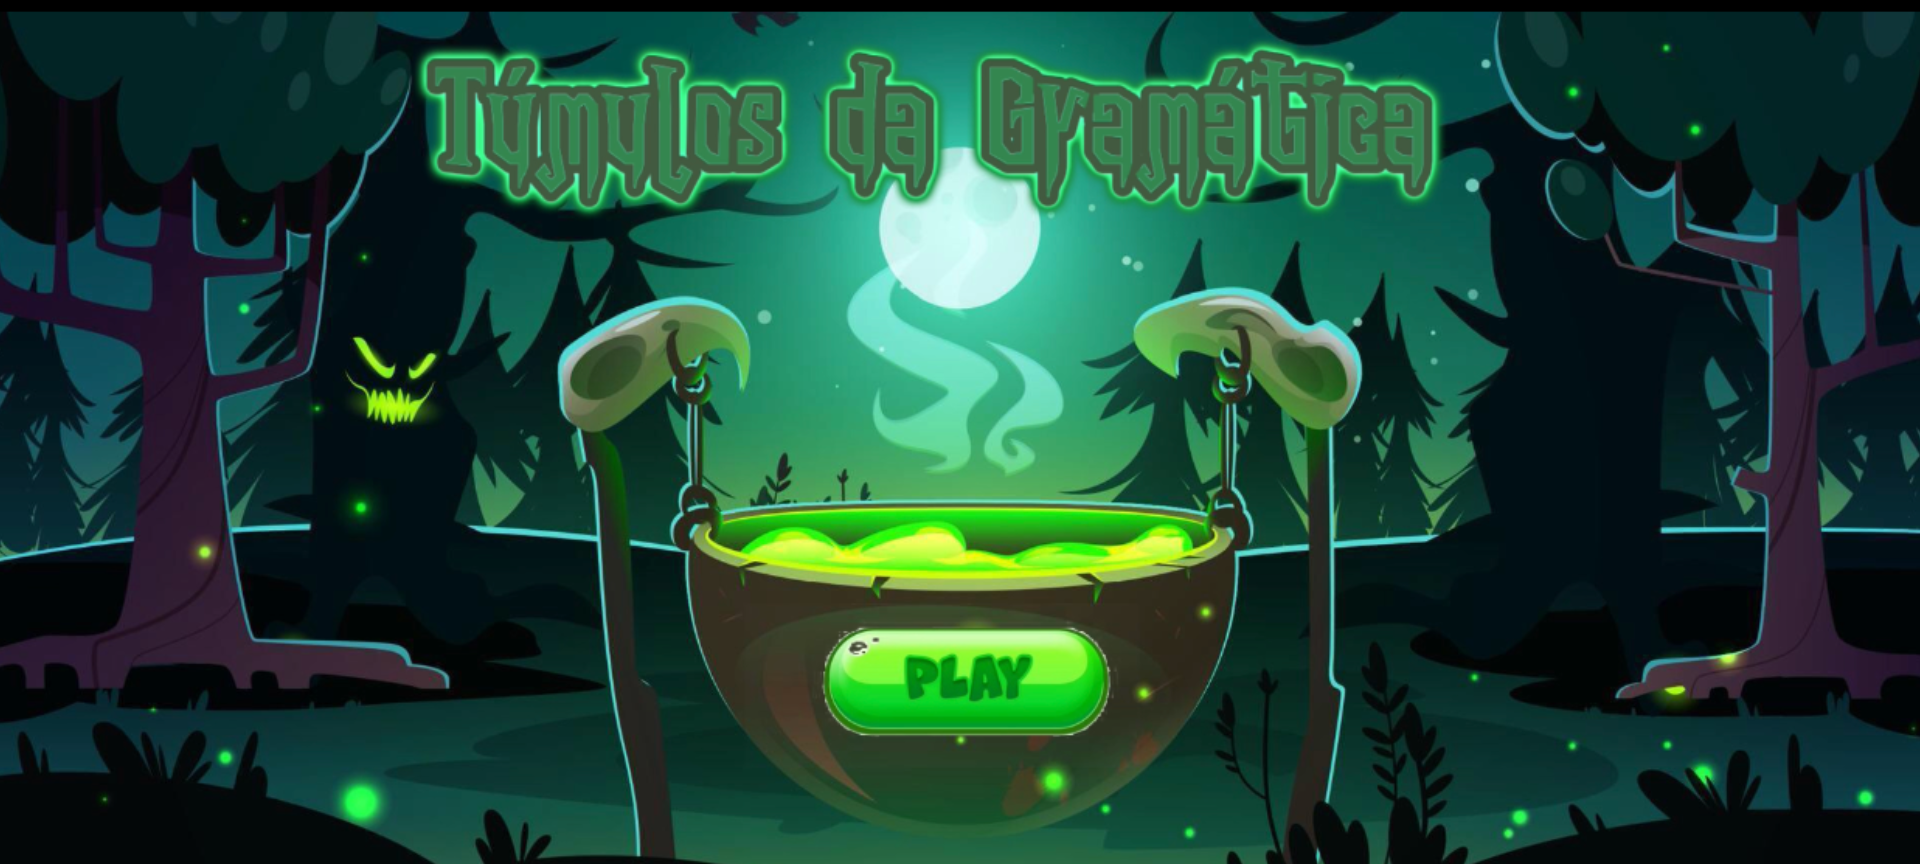
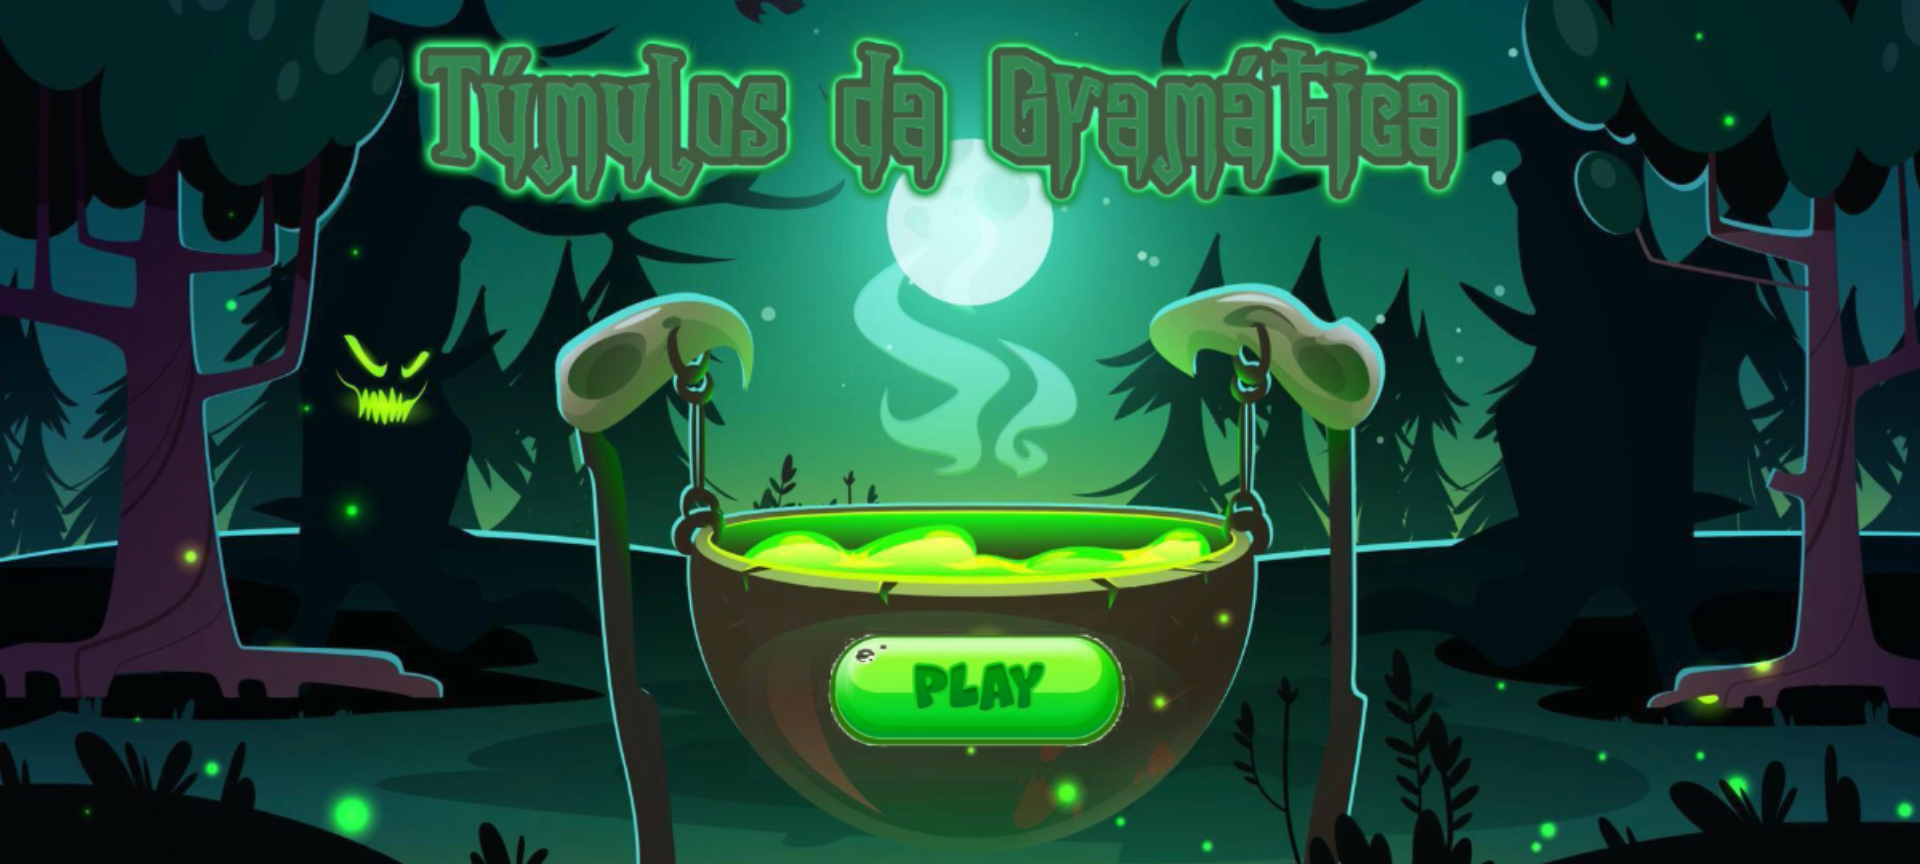
Add files via upload

diff --git a/style.css b/style.css
@@ -1,0 +1,16 @@
+body {
+    font-family: Arial, Helvetica, sans-serif;
+    text-align: center;
+    background: url("./TUMULOS\ DA\ GRAMATICA.png");
+    background-size: cover;
+    width: 1px;
+}
+
+
+#board {
+    width: 600px;
+    height: 600px;
+    /* background-color: green; */
+
+
+}
